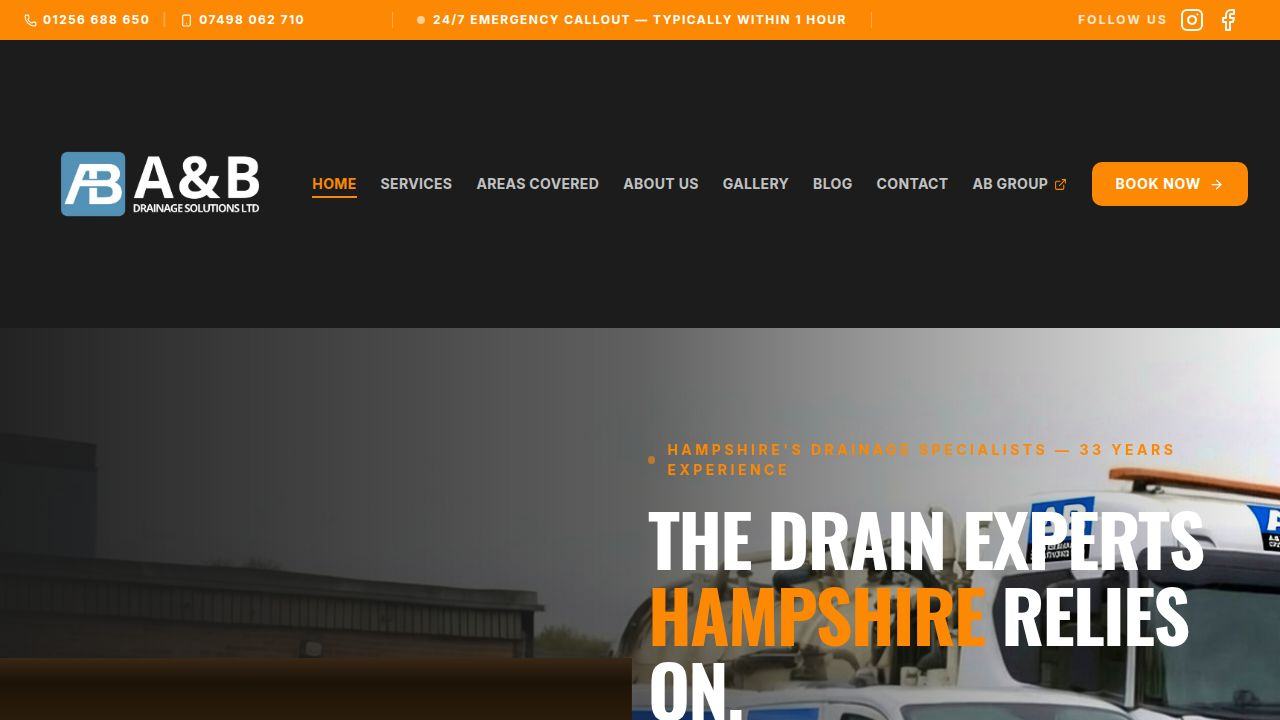
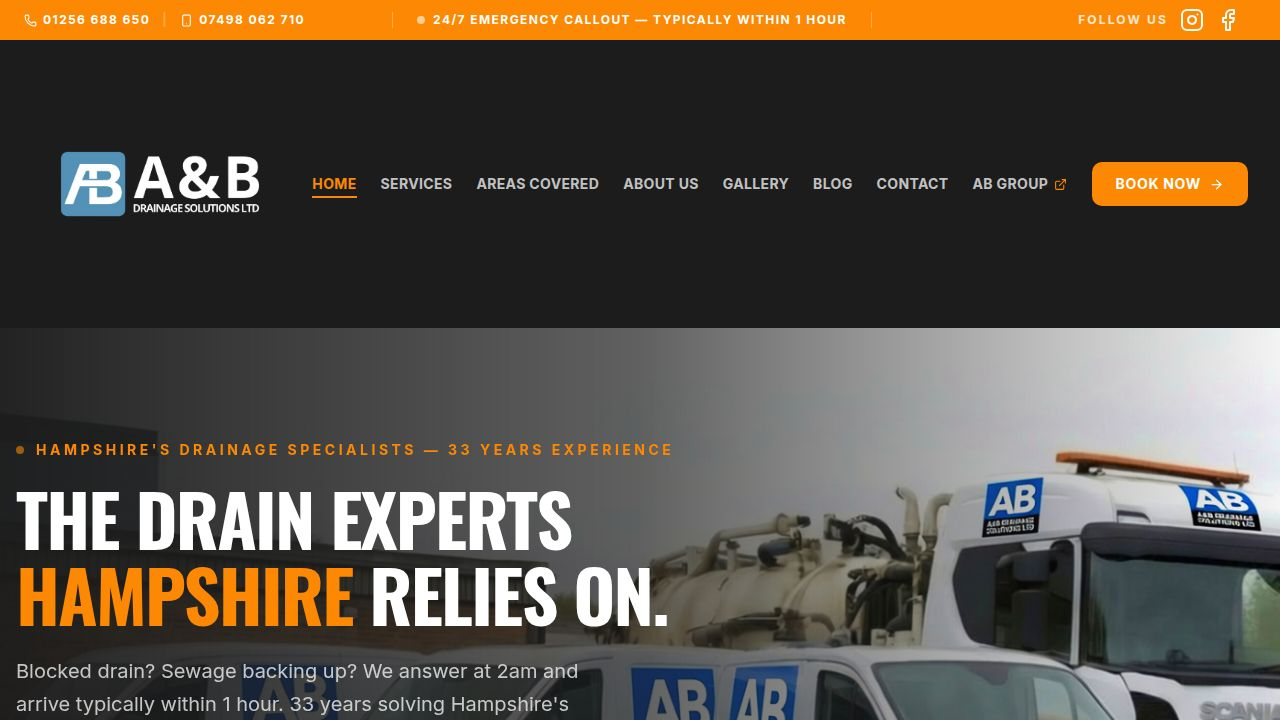
Restore original water wave effect to website hero sections
Revert changes in Home.tsx and Services.tsx to replace PipeScene with WaterWave component.

Replit-Commit-Author: Agent
Replit-Commit-Session-Id: 94828390-7acc-4b80-9e6d-51a47824fa24
Replit-Commit-Checkpoint-Type: full_checkpoint
Replit-Commit-Event-Id: f632643f-de6e-4738-b939-4dddfff8f00f
Replit-Commit-Screenshot-Url: https://storage.googleapis.com/screenshot-production-us-central1/6156495c-34bf-4539-a3b1-19835ffc592c/94828390-7acc-4b80-9e6d-51a47824fa24/0EhfxBP
Replit-Helium-Checkpoint-Created: true

Changed region(s): [[0.0, 0.5806, 1.0, 1.0]]

diff --git a/artifacts/ab-drainage/src/pages/Home.tsx b/artifacts/ab-drainage/src/pages/Home.tsx
@@ -5,7 +5,6 @@ import { motion } from "framer-motion";
 import { CountUp } from "@/components/CountUp";
 import { LogoMarquee } from "@/components/LogoMarquee";
 import { WaterWave } from "@/components/WaterWave";
-import { PipeScene } from "@/components/PipeScene";
 
 import heroImg from "@assets/site_files_1/AB Drainage background_logos.jpg";
 import work1 from "@assets/site_files_1/369541839_240515012286429_2194496784194718742_n.jpg";
@@ -81,7 +80,7 @@ export default function Home() {
           <div className="absolute inset-0 bg-gradient-to-r from-background/97 via-background/70 to-background/5"></div>
         </div>
 
-        <PipeScene className="absolute bottom-0 left-0 w-full z-[5] -mb-px h-44 md:h-56" fill="#e0f2fe" />
+        <WaterWave className="absolute bottom-0 left-0 w-full z-[5] -mb-px" fill="#e0f2fe" />
 
         <div className="container mx-auto px-4 relative z-10">
           <div className="max-w-3xl">

diff --git a/artifacts/ab-drainage/src/pages/Services.tsx b/artifacts/ab-drainage/src/pages/Services.tsx
@@ -5,7 +5,6 @@ import { motion } from "framer-motion";
 import { useBookNow } from "@/contexts/BookNowContext";
 import { FlexiPayForm } from "@/components/FlexiPayForm";
 import { WaterWave } from "@/components/WaterWave";
-import { PipeScene } from "@/components/PipeScene";
 
 import heroImg from "@assets/site_files_1/AB Drainage background_edited.jpg";
 import work1 from "@assets/site_files_1/369541839_240515012286429_2194496784194718742_n.jpg";
@@ -119,7 +118,7 @@ export default function Services() {
             We have the equipment, the experience, and the manpower to tackle any drainage issue — from a domestic blocked sink to full industrial site maintenance.
           </motion.p>
         </div>
-        <PipeScene className="absolute bottom-0 left-0 w-full z-20 -mb-px h-44 md:h-56" fill="#e0f2fe" />
+        <WaterWave className="absolute bottom-0 left-0 w-full z-20 -mb-px" fill="#e0f2fe" />
       </section>
 
       {/* Jump nav */}